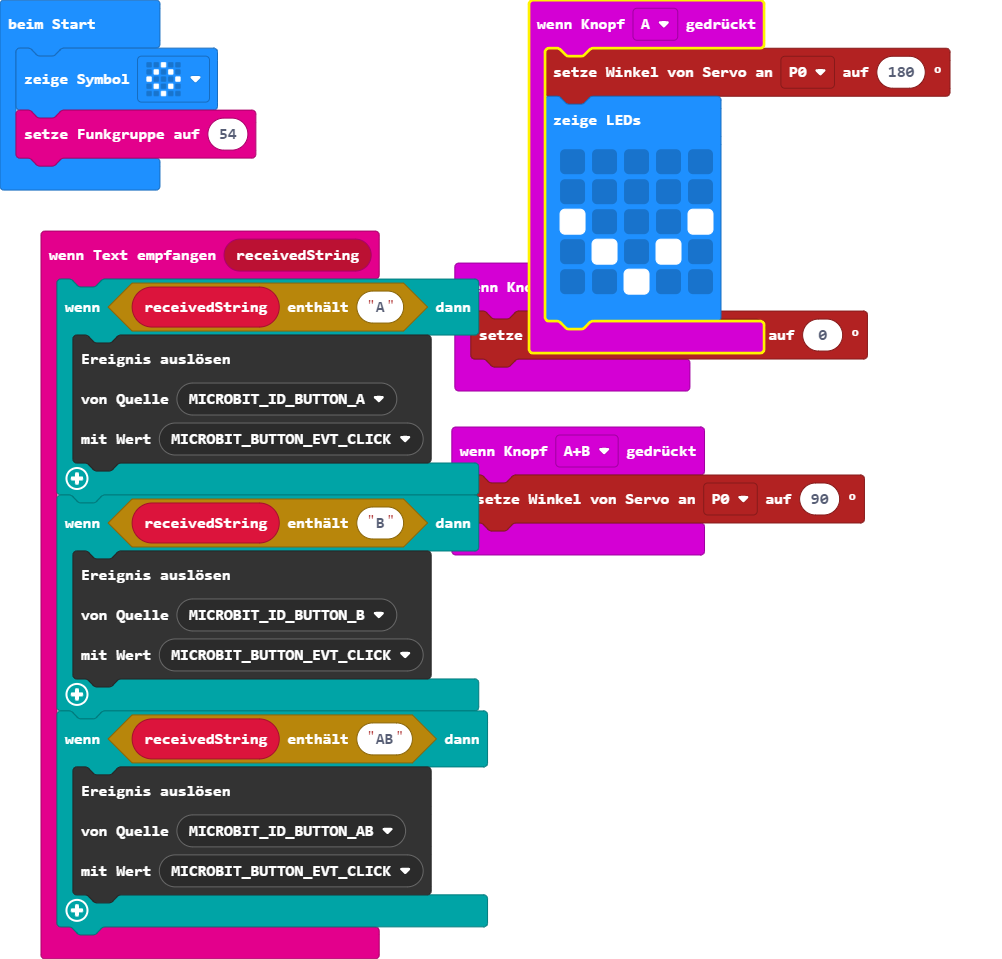
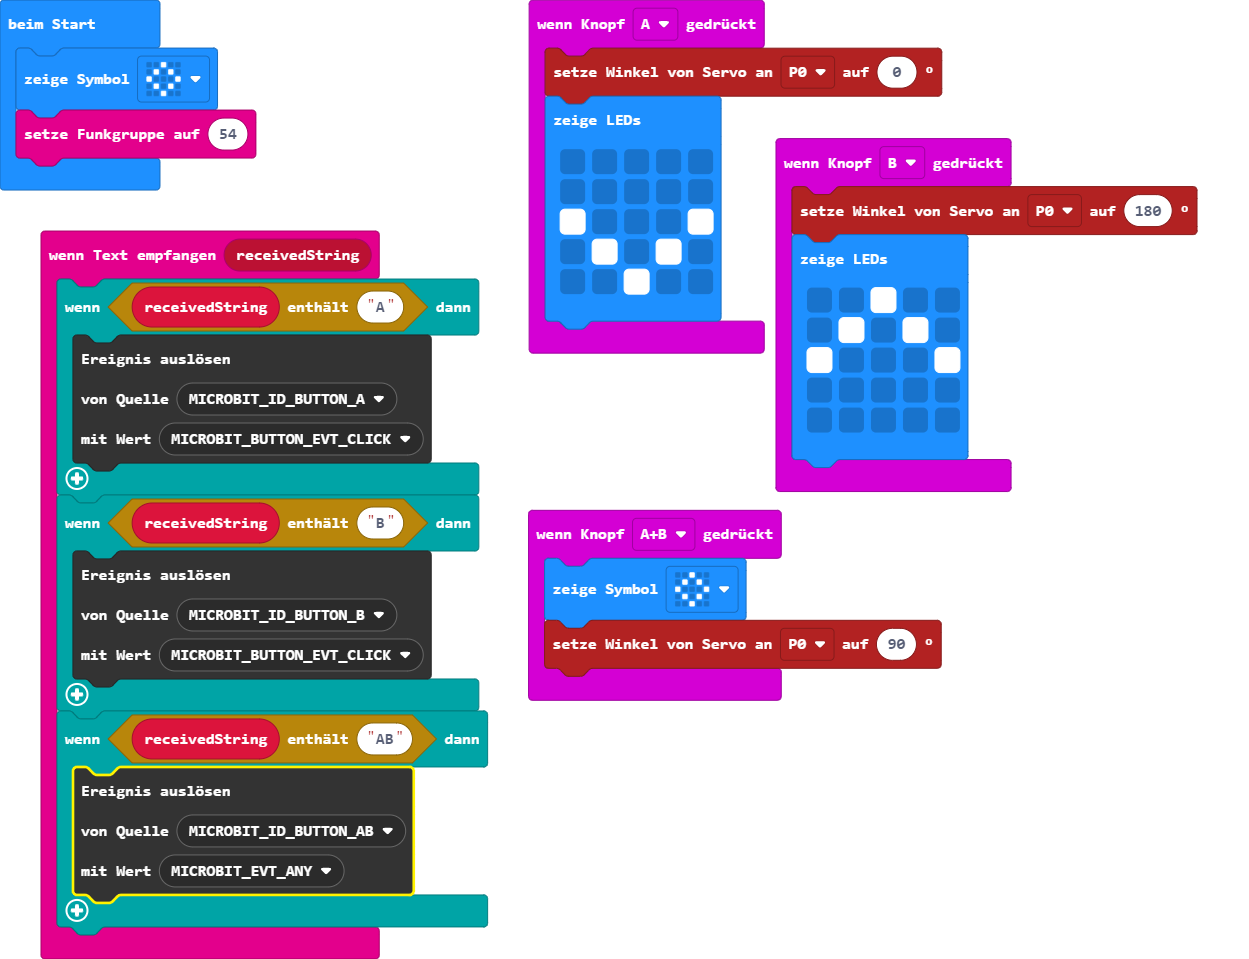
Aktualisiere main.blocks, main.ts

diff --git a/main.ts b/main.ts
@@ -1,5 +1,5 @@
 input.onButtonPressed(Button.A, function () {
-    pins.servoWritePin(AnalogPin.P0, 180)
+    pins.servoWritePin(AnalogPin.P0, 0)
     basic.showLeds(`
         . . . . .
         . . . . .
@@ -9,6 +9,7 @@ input.onButtonPressed(Button.A, function () {
         `)
 })
 input.onButtonPressed(Button.AB, function () {
+    basic.showIcon(IconNames.Diamond)
     pins.servoWritePin(AnalogPin.P0, 90)
 })
 radio.onReceivedString(function (receivedString) {
@@ -27,12 +28,19 @@ radio.onReceivedString(function (receivedString) {
     if (receivedString.includes("AB")) {
         control.raiseEvent(
         EventBusSource.MICROBIT_ID_BUTTON_AB,
-        EventBusValue.MICROBIT_BUTTON_EVT_CLICK
+        EventBusValue.MICROBIT_EVT_ANY
         )
     }
 })
 input.onButtonPressed(Button.B, function () {
-    pins.servoWritePin(AnalogPin.P0, 0)
+    pins.servoWritePin(AnalogPin.P0, 180)
+    basic.showLeds(`
+        . . # . .
+        . # . # .
+        # . . . #
+        . . . . .
+        . . . . .
+        `)
 })
 basic.showIcon(IconNames.Diamond)
 radio.setGroup(54)
